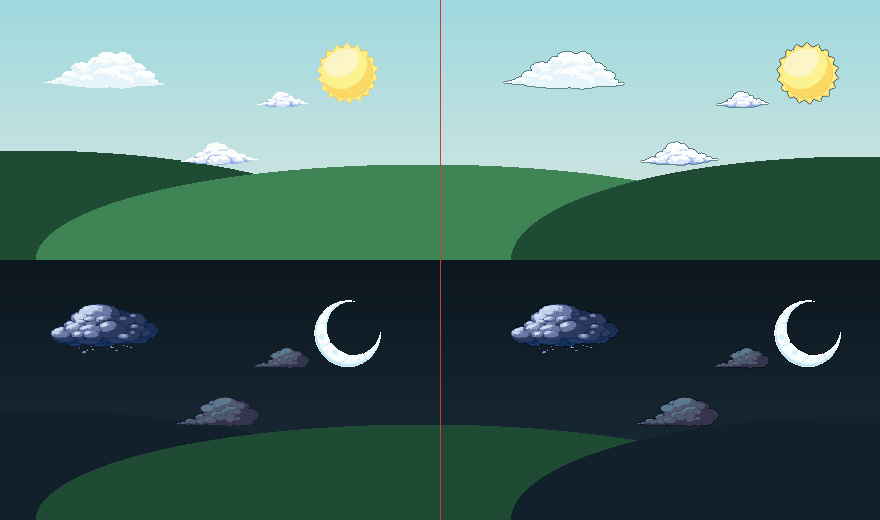
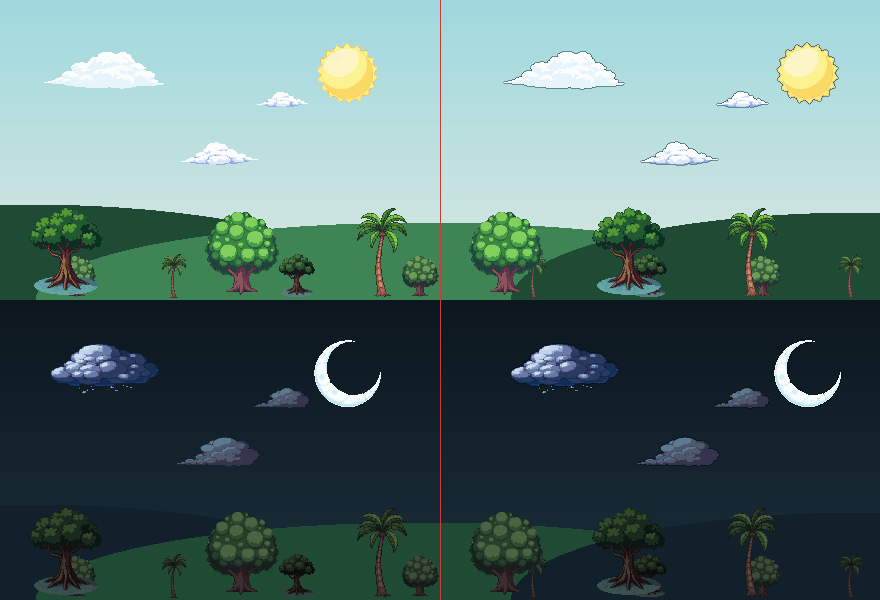
Stand real trees on the horizon
The hero's mangroves were three radial-gradient ellipses standing in for a
treeline. The tree art has been installed since the scenery batch and wired to
nothing; this places it.

Fourteen trees in two ranks. Depth is size plus a colour shift rather than
blur, because blurring pixel art destroys the hard boundary that makes it read
as pixel art at all. The far rank is darkened and desaturated toward the sky,
which is what aerial perspective does.

The gradient mounds stay, flattened from ~200px to ~90px: they are now the
bank the trees stand on rather than a stand-in for the trees. A 200px mound
behind a 96px tree reads as a hill eating the forest.

Rendered after .sky-layer so the near rank occludes the clouds. A cloud
passing in front of a tree nearer the viewer is the one thing that would give
the flat scene away.

Not suppressed under reduced motion, unlike the sky: the treeline does not
move, and the mangroves are the setting rather than an effect.

Dark theme darkens the trees. The banks re-ink for free because they are
painted from --hero-trees; a PNG cannot, so without this the trees stayed at
full daylight green against a #0C161E sky and glowed like cut-outs -- the same
defect GYM_SPRITE has on the map. Filtered rather than given a second asset
set: the change wanted is uniformly "less light", not different art. The far
rank composes depth and storm into one declaration, since a second filter on
the same element replaces rather than stacks.
[…]

diff --git a/src/app/globals.css b/src/app/globals.css
@@ -1454,12 +1454,89 @@ button.gym-marker-hit:hover {
   margin-top: -2rem; /* main's py-8 — the sky meets the nav */
   overflow: hidden;
   background:
-    /* mangrove mounds on the horizon */
-    radial-gradient(ellipse 42% 210px at 3% 100%, var(--hero-trees-far) 0 100%, transparent 101%),
-    radial-gradient(ellipse 44% 190px at 48% 100%, var(--hero-trees) 0 100%, transparent 101%),
-    radial-gradient(ellipse 40% 200px at 98% 100%, var(--hero-trees-far) 0 100%, transparent 101%),
+    /* The bank the treeline stands on. These were tall mangrove mounds doing
+       the whole job of "there are trees here"; now that real trees stand on
+       them they are flattened to low banks, because a 200px mound behind a
+       96px tree reads as a hill eating the forest. */
+    radial-gradient(ellipse 42% 96px at 3% 100%, var(--hero-trees-far) 0 100%, transparent 101%),
+    radial-gradient(ellipse 44% 78px at 48% 100%, var(--hero-trees) 0 100%, transparent 101%),
+    radial-gradient(ellipse 40% 88px at 98% 100%, var(--hero-trees-far) 0 100%, transparent 101%),
     /* sky */
     linear-gradient(180deg, var(--hero-sky-top), var(--hero-sky-bottom));
+}
+
+/* --- The treeline ---------------------------------------------------------
+
+   Real trees along the horizon, replacing the gradient mounds that used to
+   stand in for them.
+
+   Painted after .sky-layer in the DOM and at the same z-index, so the trees
+   occlude the clouds — a cloud drifting in front of a tree that is nearer to
+   the viewer is the one thing that would give the whole flat scene away.
+
+   Depth is size plus a colour shift, not blur: blurring pixel art destroys
+   the hard pixel boundary that makes it read as pixel art at all. The far
+   rank is darkened and desaturated toward the sky, which is what aerial
+   perspective actually does. */
+.tree-line {
+  position: absolute;
+  inset: auto 0 0 0;
+  height: 200px;
+  overflow: hidden;
+  pointer-events: none;
+  z-index: 0;
+}
+
+.tree {
+  position: absolute;
+  bottom: 0;
+  display: block;
+  background-repeat: no-repeat;
+  background-size: 100% 100%;
+  image-rendering: pixelated;
+}
+
+/* Near rank: full size, full colour, sitting on the bank. */
+.tree--near { width: 96px; height: 96px; }
+/* Far rank: smaller, pushed back toward the sky's value. */
+.tree--far {
+  width: 48px;
+  height: 48px;
+  filter: brightness(0.78) saturate(0.72);
+}
+
+.tree--a { background-image: url("/scenery/v1/96/tree-1.png"); }
+.tree--b { background-image: url("/scenery/v1/96/tree-2.png"); }
+.tree--c { background-image: url("/scenery/v1/96/tree-3.png"); }
+.tree--far.tree--a { background-image: url("/scenery/v1/48/tree-1.png"); }
+.tree--far.tree--b { background-image: url("/scenery/v1/48/tree-2.png"); }
+.tree--far.tree--c { background-image: url("/scenery/v1/48/tree-3.png"); }
+
+/* Storm Watch. The banks behind the trees re-ink for free because they are
+   painted from --hero-trees; the tree PNGs cannot, so without this they stay
+   at full daylight green against a #0C161E sky and glow like cut-outs. That
+   is the same defect GYM_SPRITE has on the map — hardcoded colour that does
+   not follow the weather — and the reason to catch it here is that a raster
+   scenery layer will keep reintroducing it.
+
+   Darkened rather than swapped for a second asset set: three more PNGs per
+   theme buys nothing a filter cannot do, because the change wanted is
+   uniformly "less light", not different art. The far rank composes both its
+   depth shift and the storm into one declaration, since a second filter on
+   the same element would replace rather than stack. */
+[data-theme="dark"] .tree {
+  filter: brightness(0.5) saturate(0.62);
+}
+[data-theme="dark"] .tree--far {
+  filter: brightness(0.4) saturate(0.48);
+}
+
+/* Phones: the hero is short and the copy needs the room, so only the far
+   rank survives and it sits lower. */
+@media (max-width: 640px) {
+  .tree-line { height: 120px; }
+  .tree--near { width: 64px; height: 64px; }
+  .tree--far { width: 40px; height: 40px; }
 }
 
 .hero-water-strip {

diff --git a/src/components/HomeHero.tsx b/src/components/HomeHero.tsx
@@ -96,6 +96,30 @@ export default function HomeHero({ tiers }: { tiers: TierSummary[] }) {
             <span className="sky-prop sky-cloud--far sky-cloud-3" />
           </div>
         )}
+
+        {/* The treeline. Unlike the sky it is NOT suppressed under reduced
+            motion — it does not move, and the mangroves are the setting
+            rather than an effect. Rendered after the sky so the near rank
+            occludes the clouds. Positions are hand-placed rather than
+            random: React Compiler's purity rule forbids Math.random() in
+            render, and a horizon that reshuffles every render would be
+            worse than one that does not. */}
+        <div className="tree-line" aria-hidden="true">
+          <span className="tree tree--far tree--c" style={{ left: "6%" }} />
+          <span className="tree tree--far tree--b" style={{ left: "17%" }} />
+          <span className="tree tree--near tree--a" style={{ left: "2%" }} />
+          <span className="tree tree--far tree--a" style={{ left: "31%" }} />
+          <span className="tree tree--near tree--c" style={{ left: "22%" }} />
+          <span className="tree tree--far tree--c" style={{ left: "45%" }} />
+          <span className="tree tree--near tree--b" style={{ left: "38%" }} />
+          <span className="tree tree--far tree--b" style={{ left: "58%" }} />
+          <span className="tree tree--near tree--c" style={{ left: "52%" }} />
+          <span className="tree tree--far tree--a" style={{ left: "71%" }} />
+          <span className="tree tree--near tree--a" style={{ left: "66%" }} />
+          <span className="tree tree--far tree--c" style={{ left: "84%" }} />
+          <span className="tree tree--near tree--b" style={{ left: "80%" }} />
+          <span className="tree tree--far tree--b" style={{ left: "94%" }} />
+        </div>
         <div className="hero-content mx-auto grid max-w-5xl items-center gap-10 px-4 pb-20 pt-8 sm:pt-12 lg:grid-cols-[1.05fr_0.95fr] lg:gap-12">
           <div>
             <p className="text-label font-semibold uppercase tracking-[0.14em] text-[var(--foreground-soft)]">
